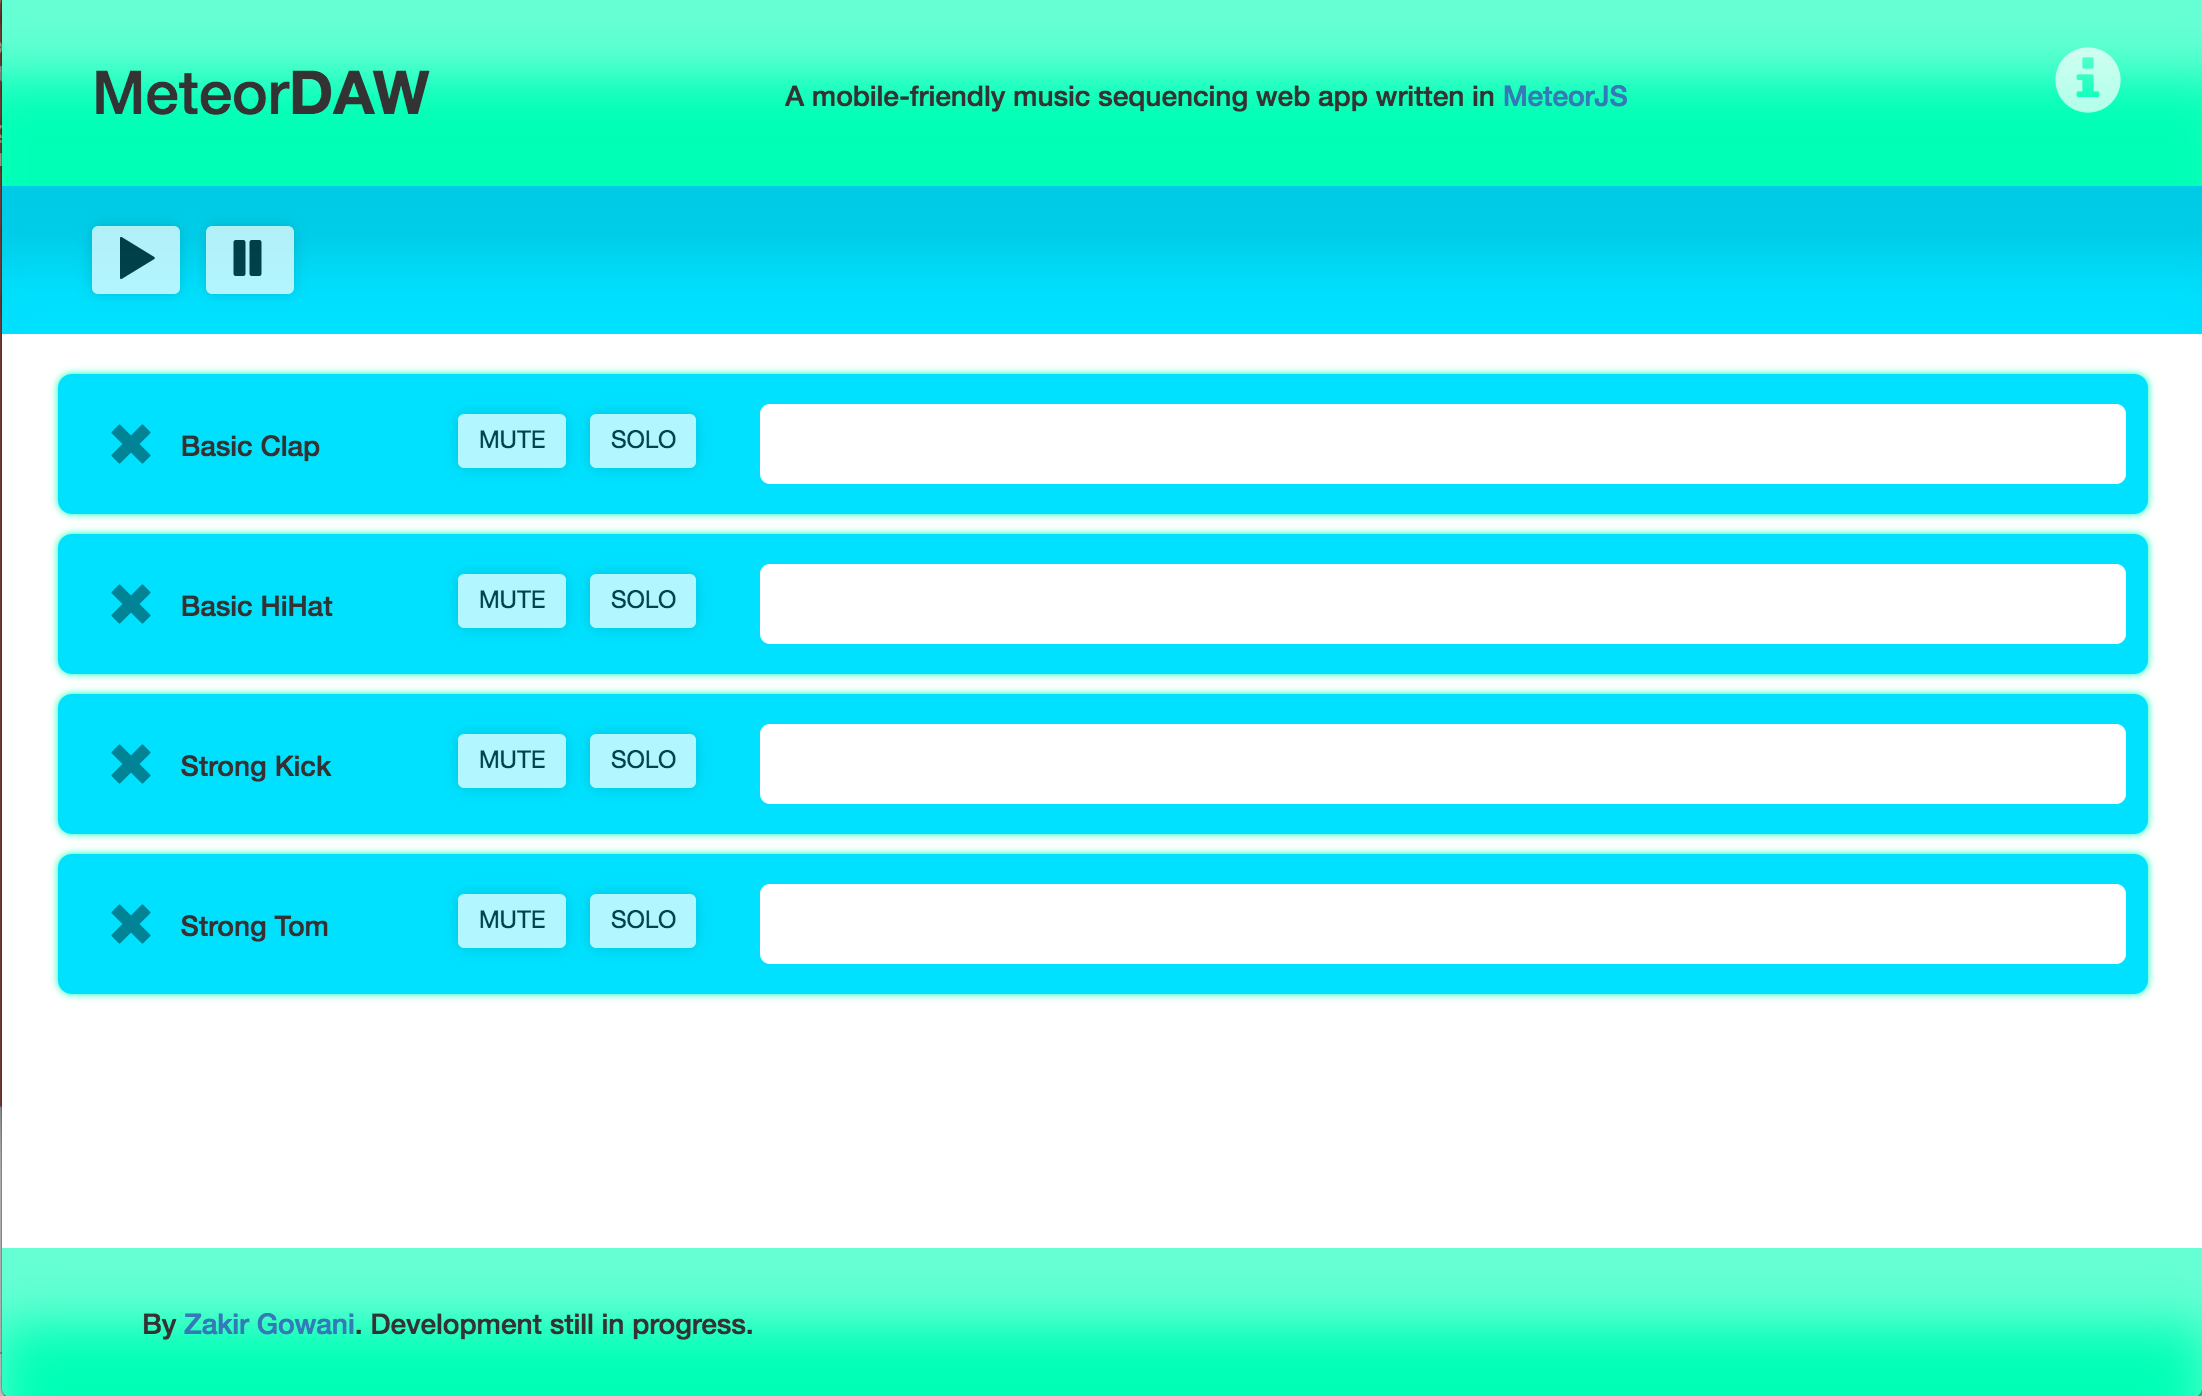
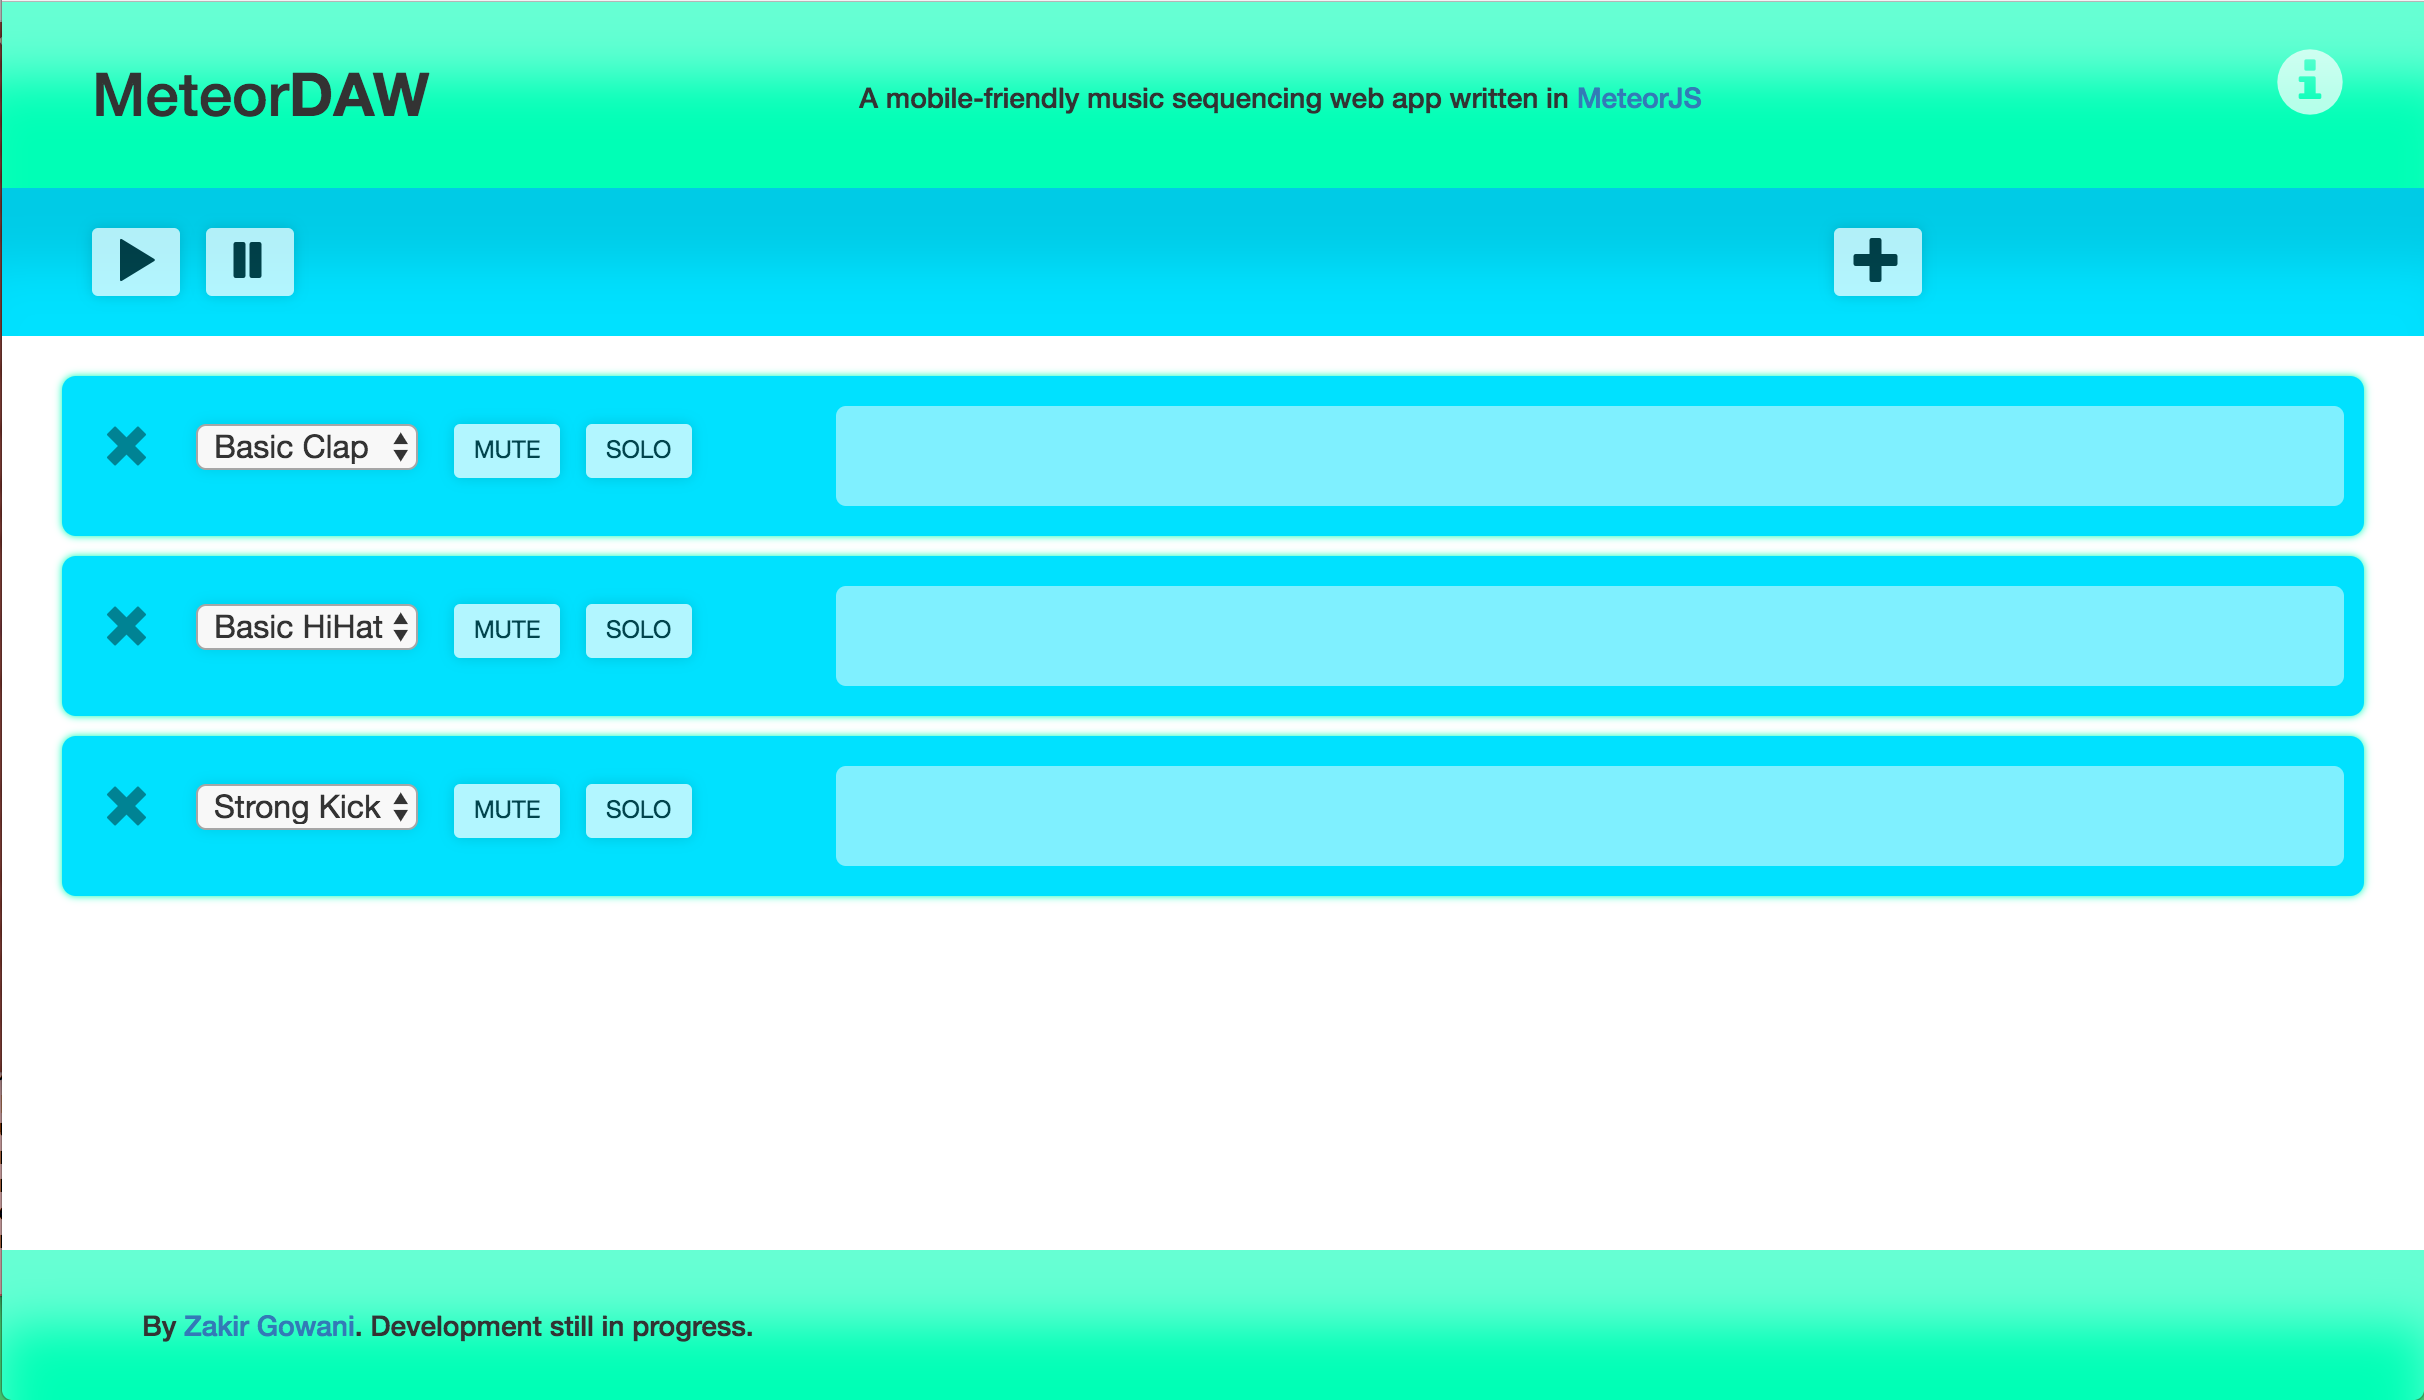
updated readme

diff --git a/client/main.html b/client/main.html
@@ -3,10 +3,10 @@
 </head>
 
 <body>
-    {{> layout }}
+    {{> controlFrame }}
 </body>
 
-<template name="layout">
+<template name="controlFrame">
     <div class="page-wrapper">
         <div class="container-fluid content-wrapper">
             <header class="row primary-color">
@@ -25,11 +25,11 @@
                         <button class="large-button" id="pause-button"><span class="glyphicon glyphicon-pause"></span></button>
                     </div>
                     <div class="col-sm-3 col-xs-6">
+                    </div>
+                    <div class="col-sm-3 col-xs-6">
+                    </div>
+                    <div class="col-sm-3 col-xs-6">
                         <button class="large-button" id="add-track" ><span class="glyphicon glyphicon-plus"></span></button>
-                    </div>
-                    <div class="col-sm-3 col-xs-6">
-                    </div>
-                    <div class="col-sm-3 col-xs-6">
                     </div>
                 </div>
             </header>

diff --git a/client/main.js b/client/main.js
@@ -5,7 +5,7 @@ import './main.html';
 
 Meteor.subscribe('allSounds');
 
-Template.layout.events({
+Template.controlFrame.events({
     'click #add-track' : function() {
         // When a user creates a new track, the kick will be the default sound.
         SelectedSounds.insert(strongKick);
